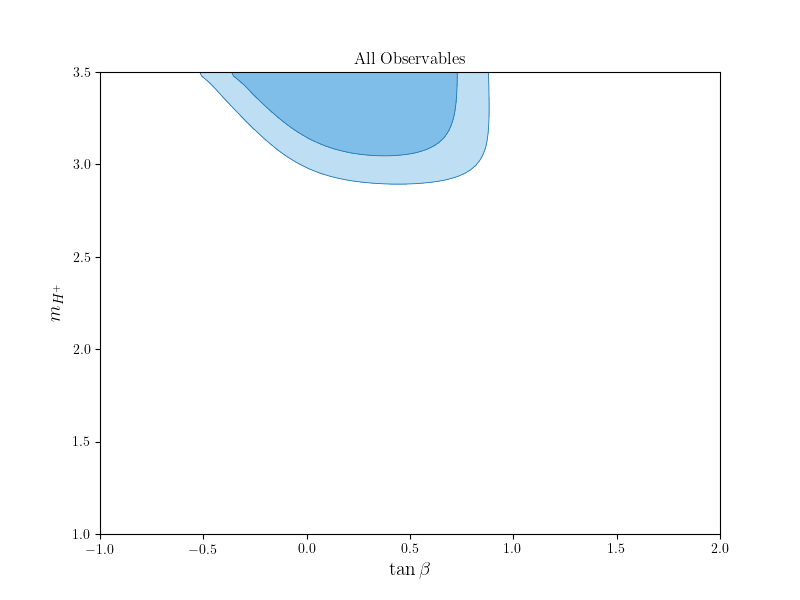
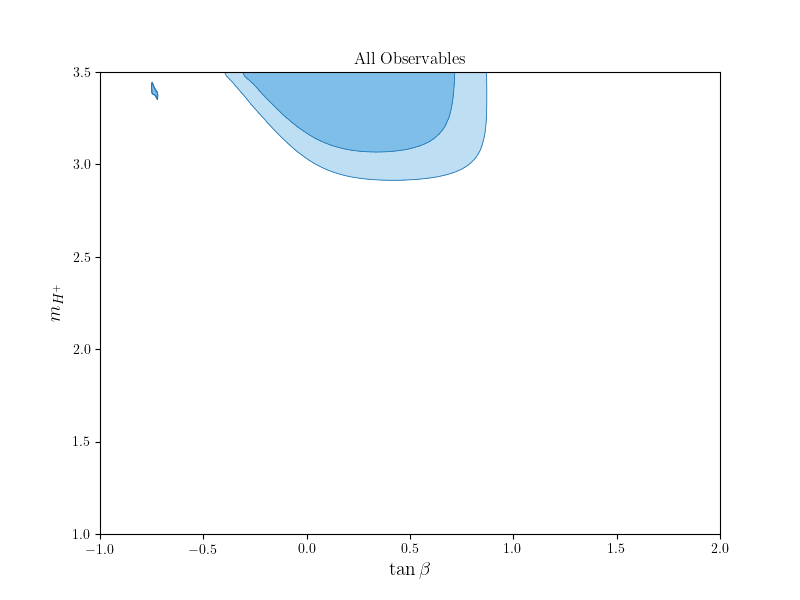
added B mixing at LO, working on NLO

Changed region(s): [[0.25, 0.12, 0.5938, 0.33], [0.5625, 0.12, 0.625, 0.27], [0.1875, 0.15, 0.2188, 0.18]]

diff --git a/repl-glob.py b/repl-glob.py
@@ -27,6 +27,7 @@ mH0 = 1500 # mass of heavy neutral Higgs, GeV
 
 my_obs = [
     # what observables are we considering in the fit
+#    'RKpi(P+->munu)',
     'BR(B+->taunu)',
     'BR(B+->munu)',
     'BR(D+->munu)',
@@ -34,12 +35,13 @@ my_obs = [
     'BR(Ds->taunu)',
     'BR(tau->Knu)',
     'BR(tau->pinu)',
-#    'RKpi(P+->munu)',
     'BR(B->Xsgamma)',
     'BR(Bs->mumu)',
     'BR(B0->mumu)',
     'Rtaul(B->Dlnu)',
     'Rtaul(B->D*lnu)',
+    'DeltaM_d',
+    'DeltaM_s',
 ]
 
 FL2 = FastLikelihood(name="likelihood test",observables=my_obs,
@@ -75,9 +77,13 @@ def func(wcs):
     CSL_tr, CSR_tr = rat_d(par,'m_tau',10**tanb,10**mH)
     CSL_mr, CSR_mr = rat_d(par,'m_mu',10**tanb,10**mH)
     CSL_er, CSR_er = rat_d(par,'m_e',10**tanb,10**mH)
+#    C1bs, C1pbs, C2bs, C2pbs, C4bs, C5bs = mixing(par,ckm_els,['m_s',1,'m_d'],10**tanb,10**mH)
+    C1bs = mixing2(par,abs(ckm_els[2,1]*np.conj(ckm_els[2,2]))**2,10**tanb,10**mH)
+    C1bd = mixing2(par,abs(ckm_els[2,0]*np.conj(ckm_els[2,2]))**2,10**tanb,10**mH)
 
     wc = flavio.WilsonCoefficients()
     wc.set_initial({ # tell flavio what WCs you're referring to with your variables
+#                    'CSR_sumunumu': CSR_k, 'CSL_sumunumu': CSL_k,'CSR_dumunumu': CSR_p, 'CSL_dumunumu': CSL_p, # RKpi->munu
                     'CSR_butaunutau': CSR_b, 'CSL_butaunutau': CSL_b, # B+->taunu
                     'CSR_bumunumu': CSR_b, 'CSL_bumunumu': CSL_b, # B+->munu
                     'CSR_dcmunumu': CSR_d, 'CSL_dcmunumu': CSL_d, # D+->munu
@@ -85,11 +91,11 @@ def func(wcs):
                     'CSR_sctaunutau': CSR_ds, 'CSL_sctaunutau': CSL_ds, # Ds->taunu
                     'CSR_sutaunutau': CSR_k, 'CSL_sutaunutau': CSL_k, # tau->Knu
                     'CSR_dutaunutau': CSR_p, 'CSL_dutaunutau': CSL_p, # tau->pinu
-#                    'CSR_sumunumu': CSR_k, 'CSL_sumunumu': CSL_k,'CSR_dumunumu': CSR_p, 'CSL_dumunumu': CSL_p, # RKpi->munu
                     'C7_bs': C7_bs,'C8_bs': C8_bs, # B->Xsgamma
                     'C10_bsmumu': C10_s,'C10p_bsmumu': C10p_s,'CS_bsmumu': CS_s,'CSp_bsmumu': CSp_s,'CP_bsmumu': CS_s,'CPp_bsmumu': CSp_s, # Bs->mumu
                     'C10_bdmumu': C10_d,'C10p_bdmumu': C10p_d,'CS_bdmumu': CS_d,'CSp_bdmumu': CSp_d,'CP_bdmumu': CS_d,'CPp_bdmumu': CSp_d, # B0->mumu
-                    'CSR_bctaunutau': CSR_tr, 'CSL_bctaunutau': CSL_tr,'CSR_bcmunumu': CSR_mr, 'CSL_bcmunumu': CSL_mr,'CSR_bcenue': CSR_er, 'CSL_bcenue': CSL_er, # R(D) and R(D*) 
+                    'CSR_bctaunutau': CSR_tr, 'CSL_bctaunutau': CSL_tr,'CSR_bcmunumu': CSR_mr, 'CSL_bcmunumu': CSL_mr,'CSR_bcenue': CSR_er, 'CSL_bcenue': CSL_er, # R(D) and R(D*)
+                    'CVLL_bsbs': C1bs, 'CVLL_bdbd': C1bd, #'CVRR_bsbs': C1pbs, 'CSLL_bsbs': C2bs, 'CSRR_bsbs': C2pbs, 'CSLR_bsbs': C4bs, 'CVLR_bsbs': C5bs, # B Mixing
                     },
                     scale=4.18, # mub I think, will almost always be the b-quark mass
                     eft='WET', basis='flavio')

diff --git a/functions.py b/functions.py
@@ -160,7 +160,7 @@ def mixing(par,CKM,mds,tanb,mH):
     Vus, Vub = CKM[0,mds[1]], CKM[0,2],
     Vcs, Vcb = CKM[1,mds[1]], CKM[1,2]
     Vts, Vtb = CKM[2,mds[1]], CKM[2,2]
-    vev,mu,md,mW,QCD = par['vev'],par['m_W'],par['lam_QCD']
+    vev,mW,QCD = par['vev'],par['m_W'],par['lam_QCD']
     mu = [par['m_u'],par['m_c'],running.get_mt(par,par['m_t'])]
     md = [par[mds[2]],par[mds[0]],par['m_b']]
     def I1(b):
@@ -263,6 +263,22 @@ def mixing(par,CKM,mds,tanb,mH):
 
     return c1, c1p, c2, c2p, c4, c5
 
+def mixing2(par,ckm_els,tanb,mH):
+
+    mtmu = running.get_mt(par,par['m_W'])
+    mtmut = running.get_mt(par,par['m_t'])
+
+    x_tH1 = (mtmut/mH)**2
+    x_tW1 = (mtmut/par['m_W'])**2
+    x_tH = (mtmu/mH)**2
+    x_tW = (mtmu/par['m_W'])**2
+    S_WH = (x_tH1*x_tW1/(4*tanb**2))*((2*x_tW1-8*x_tH1)*np.log(x_tH1)/((x_tH1-x_tW1)*(1-x_tH1)**2) + 6*x_tW1*np.log(x_tW1)/((x_tH1-x_tW1)*(1-x_tW1)**2) - (8-2*x_tW1)/((1-x_tW1)*(1-x_tH1)))
+    S_HH = (x_tH1*x_tW1/(4*tanb**4))*((1+x_tH1)/((1-x_tH1)**2)+2*x_tH1*np.log(x_tH1)/((1-x_tH1)**3))
+
+    pref = ((1/4)*(par['GF']/np.pi)**2)*(par['m_W']**2)*ckm_els*0.85
+
+    return pref*(S_WH + S_HH)
+
 def rh(mu,md,tanb,mH):
     '''
         Function for M->lnu 2HDM WC contribution, based on rH we used from 0907.5135
@@ -280,7 +296,7 @@ def rat_d(par,ml,tanb,mH):
     '''
         Function for WCs of B->Dlnu for R(D) and R(D*) in 2HDM
 
-        I think this is right for the WCs, I've tried to derive it from the Lagrangian given in 
+        I think this is right for the WCs, I've tried to derive it from the Lagrangian given in
         https://arxiv.org/pdf/1705.02465.pdf
     '''
     ml, mc, mb = par[ml], par['m_c'], par['m_b']

diff --git a/README.md b/README.md
@@ -15,7 +15,8 @@ _Research extension from [4th Year project](https://github.com/mbr-phys/cpviolat
 
 - [x] sorted leptonics as well, need to check with Alex I've done it right
 - [x] Switch from manual running top quark calculation to using flavio's running 
-- [ ] Add B mixing - _waiting on operator interpretation from Alex_
+- [x] Add LO B Mixing 
+- [ ] Add higher-order B mixing from Crivellin - _waiting on operator interpretation from Alex_ 
 - [x] Add R(D), R(Dst) 
 - [ ] Look into `RKpi(P+->munu)`, it's going all funky right now - maybe errors in FFs?
 - [ ] `Bs->mumu` also seems to have some weird issues at 1 sigma that I want to check - errors might be a bit tight
